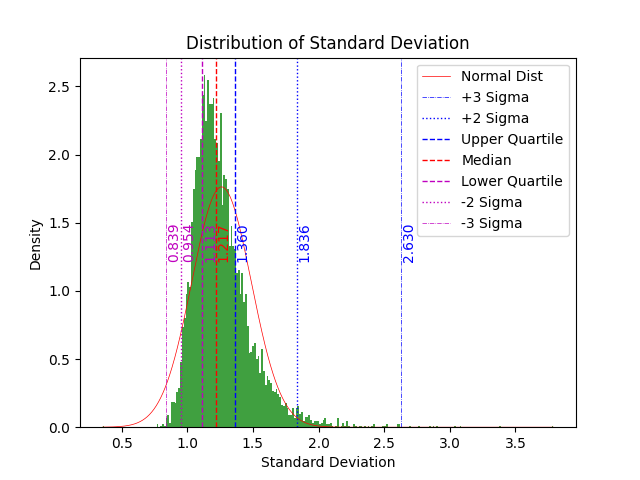
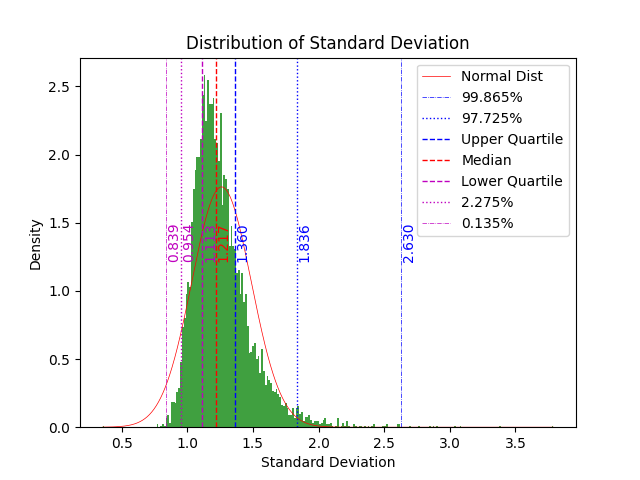
Update wordings

Changed region(s): [[0.7188, 0.1875, 0.8438, 0.2812], [0.7188, 0.4062, 0.8125, 0.5]]

diff --git a/stat.py b/stat.py
@@ -79,7 +79,7 @@ def x_stat(s, name, fname, n, ofile):
     plt.text(lq + x_diff, mid_y, f"{lq:.3f}", rotation=90, va='center', color='m')
     plt.text(n2s + x_diff, mid_y, f"{n2s:.3f}", rotation=90, va='center', color='m')
     plt.text(n3s + x_diff, mid_y, f"{n3s:.3f}", rotation=90, va='center', color='m')
-    plt.legend(["Normal Dist", "+3 Sigma", "+2 Sigma", "Upper Quartile", "Median", "Lower Quartile", "-2 Sigma", "-3 Sigma"])
+    plt.legend(["Normal Dist", "99.865%", "97.725%", "Upper Quartile", "Median", "Lower Quartile", "2.275%", "0.135%"])
     plt.title("Distribution of %s" % name)
     plt.xlabel(name)
     plt.ylabel("Density")
@@ -135,7 +135,7 @@ def x_nodist(s, name, fname, n, ofile):
     plt.text(p2s + x_diff, mid_y, f"{p2s:.0f}", rotation=90, va='center', color='b')
     plt.text(uq + x_diff, mid_y, f"{uq:.0f}", rotation=90, va='center', color='b')
     plt.text(med + x_diff, mid_y, f"{med:.0f}", rotation=90, va='center', color='r')
-    plt.legend(["+3 Sigma", "+2 Sigma", "Upper Quartile", "Median", "Lower Quartile"])
+    plt.legend(["99.865%", "97.725%", "Upper Quartile", "Median", "Lower Quartile"])
     plt.title("Distribution of %s" % name)
     plt.xlabel(name)
     plt.ylabel("Density")

diff --git a/README.md b/README.md
@@ -48,10 +48,10 @@ To crawl data by yourself, you can run the following commands, or simply execute
 - **All data are stored in UTF-8 encoding**. Your spreadsheet software may not recognize it. You should open the CSV file with encoding `UTF-8` or `UTF-8 with BOM`.
 - **Please configure `subject.py` Line 31 before running**. If you need a fresh start, change to `w`; but if you want to resume after some blocks, change to `a`.
 - Estimated time to get entry list: around 2 minutes.
-- Estimated time to get entry details: 40-50 minutes.
+- Estimated time to get entry details: 1 hour.
 - Refer to [Bangumi API](https://bangumi.github.io/api/) for everything about API.
 - Although fake user-agent works, it is recommended to [configure your own UA](https://github.com/bangumi/api/blob/master/docs-raw/user%20agent.md).
-- The data are crawled and processed in blocks. By default, 10 pages (240 entries) per block. At 2023-04-30, there are 320 pages in total, which are split into 32 blocks, numbered with their starting page number (1, 11, 21, ..., 311). It is very likely that pages and blocks will increase over time, but there should be no issue if you keep the default block setting.
+- The data are crawled and processed in blocks. By default, 10 pages (240 entries) per block. As of 2023-04-30, there are 320 pages in total, which are split into 32 blocks, numbered with their starting page number (1, 11, 21, ..., 311). It is very likely that pages and blocks will increase over time, but there should be no issue if you keep the default block setting.
 - Restricted entries can be found in `data/id/restricted.txt`. They appear in the ranking list but cannot be accessed by API. They are excluded from the `sub.csv` file.
 - The `rank` field in the CSV file is the rank within available entries. The original rank is not included since it cannot provide any statistical information.
 - Because of the restricted entries, it is common to see many entries missing with logs in the console. You can safely ignore them. However, if there are too many missing entries, you may want to check:

diff --git a/ponet/README.md b/ponet/README.md
@@ -44,13 +44,11 @@ Then:
 2. Calculate the score of A and B. Different forms of relative score of A against B is defined as:
     - **Total Score** is defined as `x - y`.
     - **Percentage Score** is defined as `(x - y) / n`.
-    - **Percentage Score with Confidence** is defined as `(x - y) / sqrt(n)`.
     - **Simple Score** is defined as `sgn(x - y)`.
 
 > Different scores can behave very differently. Suppose we have entry A and B (x = 90, y = 10, n = 100), and entry C and D (x = 9, y = 1, n = 10).
 > - Total score favors entry with more votes. A will receive a higher score than C. It is likely to yield a ranking similar to the classic ones.
 > - Percentage score favors entry with less disagreement. A will receive equal score as C. However, suppose we have a user thinking D is better than C. This will siginicantly reduce the score of C; and if he thinks B is better than A, this will just slightly reduce the score of A.
-> - Percentage score with confidence is a compromise between the above two. It still favors entry with more votes, but it will become much less sensitive when n is large. A will still receive a higher score than C, but the difference is much smaller than that of total score.
 > - Simple score is another compromise. Pretty insensitive to n, but tolerates disagreement more.
 
 3. The relative score of B against A is defined as the negative of that of A against B.
